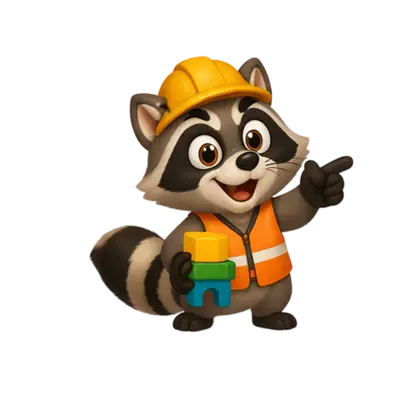
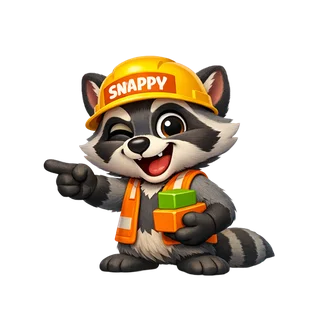
v4.4.64: Новые карточки Snappy — 7 поз, 3 размера
Mascot:
- 6 новых карточек Snappy (PNG 724x724 → WebP 3 размера)
- Позы: think (думает), wave (машет), celebrate (трофей), sad (грустный), point (указывает), shock (удивлён)
- Размеры: standard 160px (6-8KB), large 320px (15-22KB), full 724px (47-70KB)
- Mascot.jsx: +think поза, +full размер, alt 'Snappy'

Контекстные позы:
- LazyFallback (загрузка) → think
- Arena → celebrate
- DailyChallenge → wave
- Profile → wave
- ErrorBoundary → shock (было)
- What's New → celebrate (было)

diff --git a/src/components/Mascot.jsx b/src/components/Mascot.jsx
@@ -1,6 +1,7 @@
 /**
- * Маскот Снуппи — енот-строитель
- * Позы: hero, wave, point, sad, shock, celebrate
+ * Маскот Snappy — енот-строитель
+ * Позы: hero, wave, point, sad, shock, celebrate, think
+ * Размеры: standard (160px), large (320px), full (724px)
  */
 
 const POSES = {
@@ -10,6 +11,7 @@ const POSES = {
   sad: '/mascot/sad.webp',
   shock: '/mascot/shock.webp',
   celebrate: '/mascot/celebrate.webp',
+  think: '/mascot/think.webp',
 }
 
 const POSES_LG = {
@@ -19,14 +21,26 @@ const POSES_LG = {
   sad: '/mascot/sad-lg.webp',
   shock: '/mascot/shock-lg.webp',
   celebrate: '/mascot/celebrate-lg.webp',
+  think: '/mascot/think-lg.webp',
 }
 
-export default function Mascot({ pose = 'hero', size = 80, large, className = '', style = {}, animate = true }) {
-  const src = large ? (POSES_LG[pose] || POSES[pose]) : (POSES[pose] || POSES.hero)
+const POSES_FULL = {
+  wave: '/mascot/wave-full.webp',
+  point: '/mascot/point-full.webp',
+  sad: '/mascot/sad-full.webp',
+  shock: '/mascot/shock-full.webp',
+  celebrate: '/mascot/celebrate-full.webp',
+  think: '/mascot/think-full.webp',
+}
+
+export default function Mascot({ pose = 'hero', size = 80, large, full, className = '', style = {}, animate = true }) {
+  const src = full ? (POSES_FULL[pose] || POSES_LG[pose] || POSES[pose])
+    : large ? (POSES_LG[pose] || POSES[pose])
+    : (POSES[pose] || POSES.hero)
   return (
     <img
       src={src}
-      alt="Снуппи"
+      alt="Snappy"
       width={size}
       height={size}
       loading="lazy"

diff --git a/src/components/Arena.jsx b/src/components/Arena.jsx
@@ -45,7 +45,7 @@ export default function Arena({ onClose, onJoinMatch }) {
     <div style={{ position: 'fixed', inset: 0, zIndex: 2000, background: 'rgba(0,0,0,0.92)',
       display: 'flex', alignItems: 'center', justifyContent: 'center' }}>
       <div style={{ color: 'var(--ink2)', textAlign: 'center', padding: 20 }}>
-        <div style={{ animation: 'float 1.5s ease-in-out infinite', display: 'inline-block' }}><img src="/mascot/hero.webp" alt="" width={48} height={48} style={{ objectFit: 'contain' }} /></div>
+        <div style={{ animation: 'float 1.5s ease-in-out infinite', display: 'inline-block' }}><img src="/mascot/celebrate.webp" alt="" width={48} height={48} style={{ objectFit: 'contain' }} /></div>
       </div>
     </div>
   )

diff --git a/src/components/DailyChallenge.jsx b/src/components/DailyChallenge.jsx
@@ -31,7 +31,7 @@ export default function DailyChallenge() {
     if (gameCtx) gameCtx.emit('onDailyStart', daily)
   }
 
-  if (loading) return <div style={{ textAlign: 'center', padding: 20 }}><div style={{ animation: 'float 1.5s ease-in-out infinite', display: 'inline-block' }}><img src="/mascot/hero.webp" alt="" width={40} height={40} style={{ objectFit: 'contain' }} /></div></div>
+  if (loading) return <div style={{ textAlign: 'center', padding: 20 }}><div style={{ animation: 'float 1.5s ease-in-out infinite', display: 'inline-block' }}><img src="/mascot/wave.webp" alt="" width={40} height={40} style={{ objectFit: 'contain' }} /></div></div>
   if (!daily) return null
 
   const dateStr = daily.date || daily.seed

diff --git a/src/App.jsx b/src/App.jsx
@@ -36,7 +36,7 @@ import SplashScreen from './components/SplashScreen'
 function LazyFallback() {
   return <div style={{ textAlign: 'center', padding: '32px 16px' }}>
     <div style={{ animation: 'float 1.5s ease-in-out infinite' }}>
-      <img src="/mascot/hero.webp" alt="" width={48} height={48} style={{ objectFit: 'contain' }} />
+      <img src="/mascot/think.webp" alt="" width={48} height={48} style={{ objectFit: 'contain' }} />
     </div>
   </div>
 }
